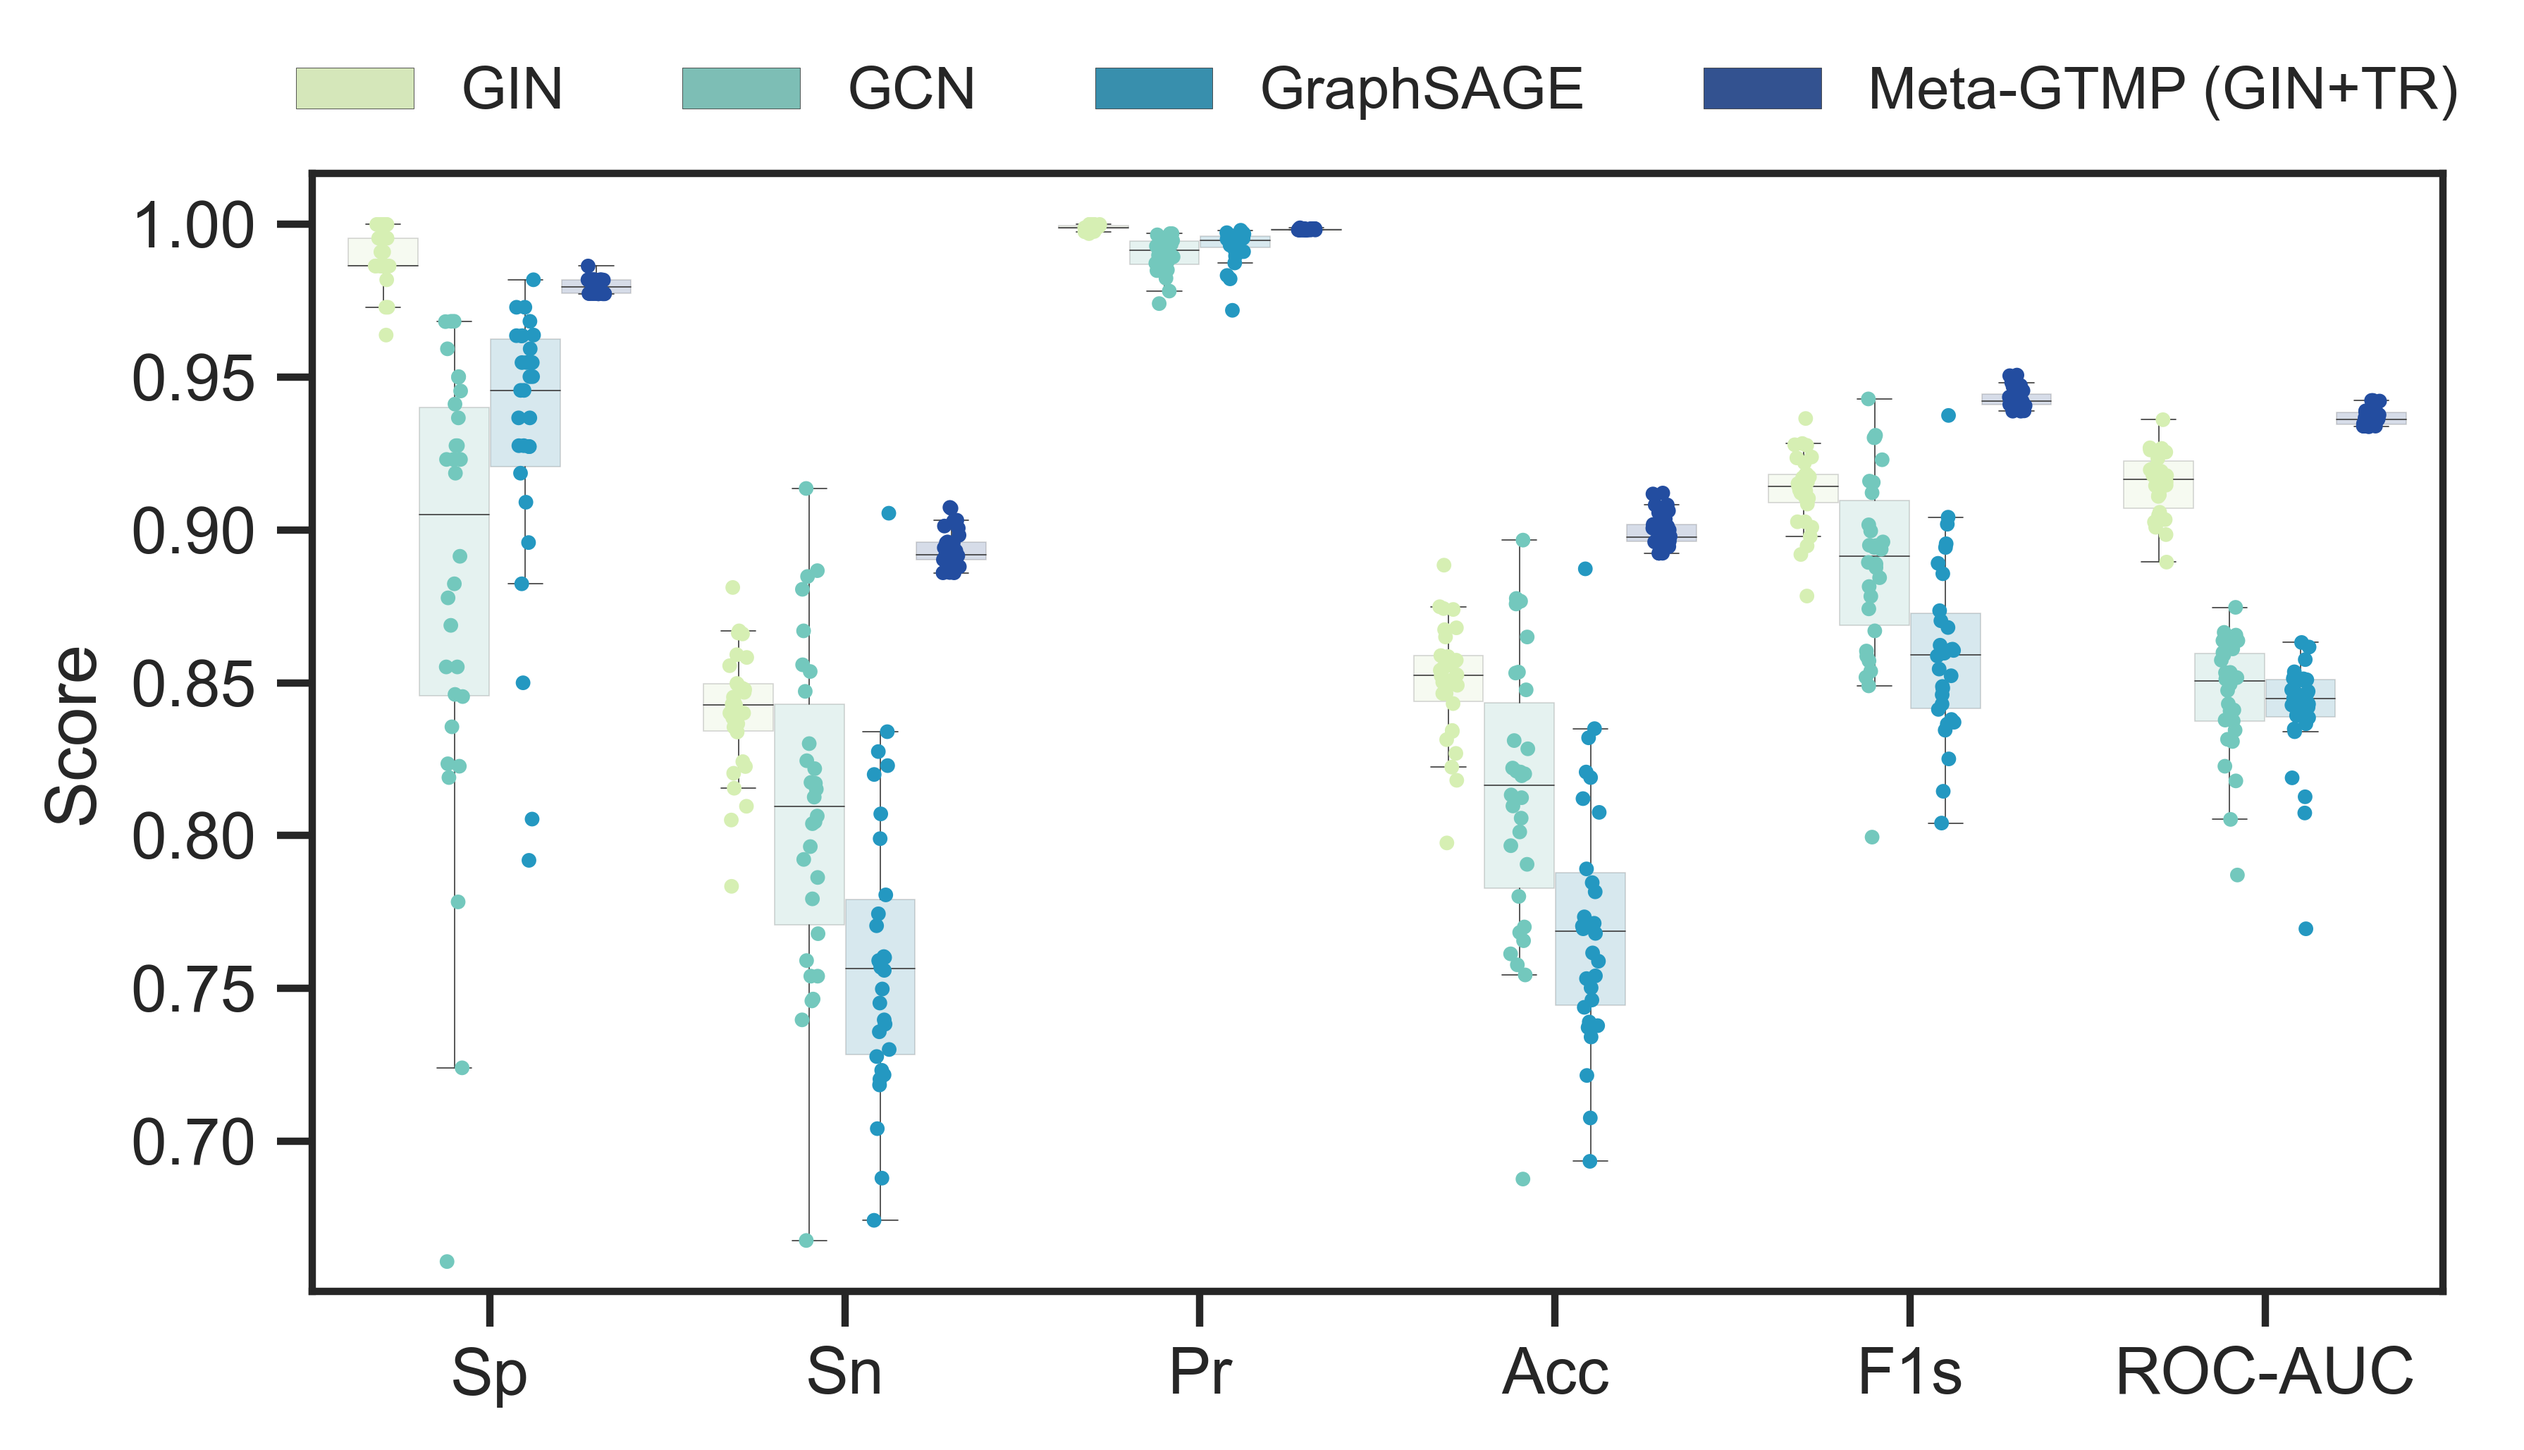
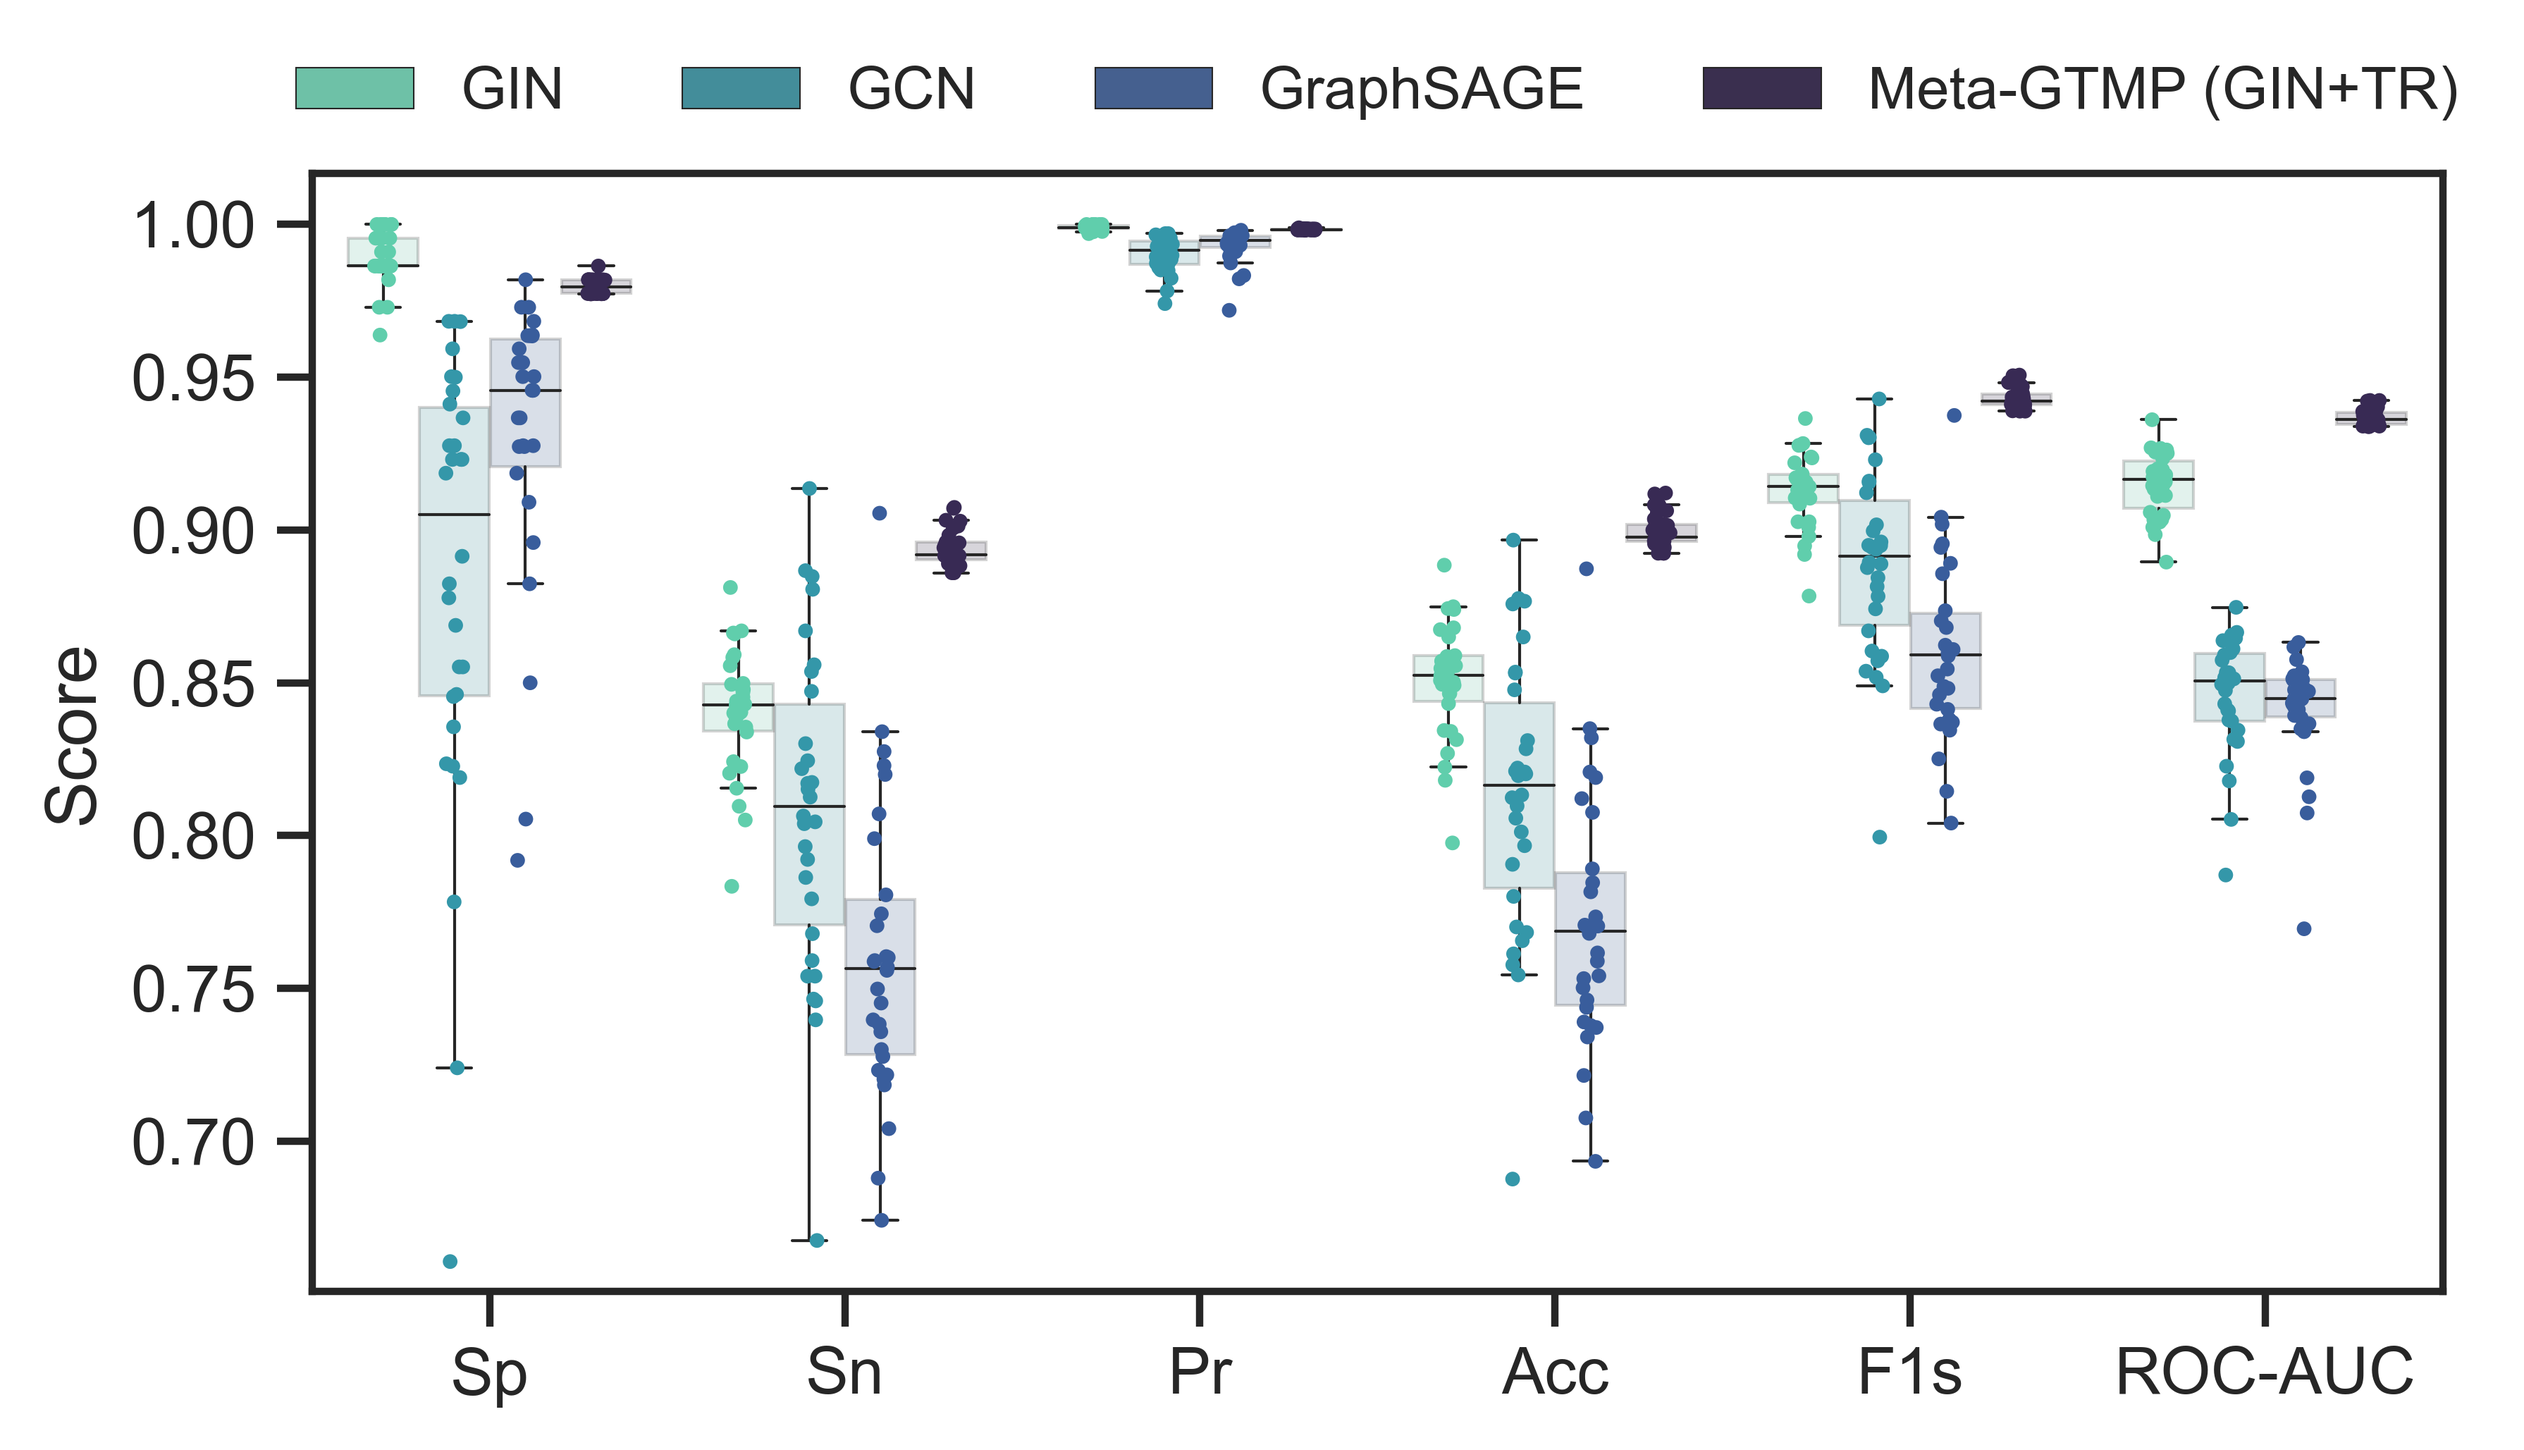
new_commit

diff --git a/utils/boxplots.py b/utils/boxplots.py
@@ -4,6 +4,7 @@ import seaborn as sns
 import numpy as np
 import math
 
+
 df = pd.DataFrame({'Metric': ['Sp','Sp','Sp','Sp','Sp','Sp','Sp','Sp','Sp','Sp','Sp','Sp','Sp','Sp','Sp','Sp','Sp','Sp','Sp','Sp','Sp','Sp','Sp','Sp','Sp','Sp','Sp','Sp','Sp','Sp'],\
                   'GIN':        np.asarray([1.0, 0.9956, 0.9956, 0.9956, 1.0, 1.0, 0.9956, 1.0, 0.9956, 1.0, 0.9956, 1.0, 1.0, 1.0, 1.0, 1.0, 0.9956, 0.9956, 0.9956, 1.0, 0.9956, 0.9956, 0.9956, 0.9956, 1.0, 0.9956, 0.9956, 1.0, 1.0, 1.0]) ,
                   'GCN':        np.asarray([0.9425, 0.8142, 0.8982, 0.7832, 0.9513, 0.8894, 0.4978, 0.9022, 0.92, 0.9733, 0.8933, 0.8578, 0.7522, 0.8496, 0.9333, 0.8844, 0.969, 0.8717, 0.792, 0.8673, 0.9378, 0.8761, 0.9469, 0.969, 0.8584, 0.8496, 0.88, 0.9071, 0.9378, 0.8938]) ,
@@ -65,10 +66,10 @@ sns.set(style = "ticks")
 
 dd=pd.melt(df_final,id_vars=['Metric'],value_vars=['GIN','GCN','GraphSAGE','Meta-GTMP (GIN+TR)'],var_name='Models')
 fig, ax = plt.subplots()
-ax = sns.boxplot(x='Metric',y='value',data=dd,hue='Models', ax=ax, palette="YlGnBu", boxprops=dict(alpha=.2), linewidth=0.2, showfliers=False)
+ax = sns.boxplot(x='Metric',y='value',data=dd,hue='Models', ax=ax, palette="mako_r", boxprops=dict(alpha=.2), linewidth=0.5, showfliers=False)
 #plt.setp(ax.artists,fill=False) 
 ylims=ax.get_ylim()
-sns.stripplot(x="Metric", y="value", hue='Models', data=dd, dodge=True, palette="YlGnBu", ax=ax, ec='k', linewidth=0,  size=2.5, alpha = 1)
+sns.stripplot(x="Metric", y="value", hue='Models', data=dd, dodge=True, palette="mako_r", ax=ax, ec='k', linewidth=0,  size=2.5, alpha = 1)
 ax.set(ylim=ylims)
 #ax.axhline(y =0.719, ls='--', c='darkred', linewidth = 0.5)
 ax.set(xlabel='', ylabel='Score')
@@ -160,10 +161,10 @@ sns.set(style = "ticks")
 
 dd=pd.melt(df_final,id_vars=['Metric'],value_vars=['GIN','GCN','GraphSAGE','Meta-GTMP (GIN+TR)'],var_name='Models')
 fig, ax = plt.subplots()
-ax = sns.boxplot(x='Metric',y='value',data=dd,hue='Models', ax=ax, palette="YlGnBu", boxprops=dict(alpha=.2), linewidth=0.2, showfliers=False)
+ax = sns.boxplot(x='Metric',y='value',data=dd,hue='Models', ax=ax, palette="mako_r", boxprops=dict(alpha=.2), linewidth=0.5, showfliers=False)
 #plt.setp(ax.artists,fill=False) 
 ylims=ax.get_ylim()
-sns.stripplot(x="Metric", y="value", hue='Models', data=dd, dodge=True, palette="YlGnBu", ax=ax, ec='k', linewidth=0,  size=2.5, alpha = 1)
+sns.stripplot(x="Metric", y="value", hue='Models', data=dd, dodge=True, palette="mako_r", ax=ax, ec='k', linewidth=0,  size=2.5, alpha = 1)
 ax.set(ylim=ylims)
 #ax.axhline(y =0.719, ls='--', c='darkred', linewidth = 0.5)
 ax.set(xlabel='', ylabel='Score')
@@ -228,7 +229,8 @@ sns.set(style = "ticks")
 
 dd=pd.melt(df_final,id_vars=['Experiment'],value_vars=['ST-TA98','ST-TA100','ST-TA102','ST-TA1535','ST-TA1537','All-Tasks'],var_name='Models')
 fig, ax = plt.subplots()
-ax = sns.barplot(x='value',y='Experiment',data=dd,hue='Models', ax=ax, palette="YlGnBu", linewidth=0.85, errorbar="sd", capsize = 0.05, errwidth = 2)
+#colors = ["#ff8100","#fb9b50","#ffb347","#9fc0de","#0466c8", "#023e7d"]
+ax = sns.barplot(x='value',y='Experiment',data=dd,hue='Models', ax=ax, palette="ch:start=.1,rot=-.2", saturation = 0.85, linewidth=0.85, errorbar="sd", capsize = 0.05, errwidth = 2)
 #sns.stripplot(x="Metric", y="value", hue='Models', data=dd, dodge=True, palette="YlGnBu", ax=ax, ec='k', linewidth=0.5,  size=2, alpha = 0.7)
 sns.set(style = 'whitegrid')
 #ax.axhline(y =0.719, ls='--', c='darkred', linewidth = 0.5)
@@ -240,8 +242,8 @@ ax.set(xlim=(0, 1.1))
 ax.spines[['right', 'top']].set_visible(False)
 sns.move_legend(ax, "upper left", bbox_to_anchor=(1, 1))
 #plt.legend([],[],frameon = False)
-fig.set_figwidth(6)
-fig.set_figheight(3.25)
+fig.set_figwidth(5)
+fig.set_figheight(5)
 handles, labels = ax.get_legend_handles_labels()
 ax.legend(handles[:6], labels[:6], bbox_to_anchor=(1, 1.02), loc='upper left')
 sns.move_legend(ax, "lower center", bbox_to_anchor=(.5, 1), ncol=6, title=None, frameon=False, fontsize=10)
@@ -251,21 +253,21 @@ sns.set(style = "ticks")
 
 dd=pd.melt(df_final,id_vars=['Experiment'],value_vars=['ST-TA98','ST-TA100','ST-TA102','ST-TA1535','ST-TA1537','All-Tasks'],var_name='Models')
 fig, ax = plt.subplots()
-ax = sns.boxplot(x='Experiment',y='value',data=dd,hue='Models', ax=ax, palette="YlGnBu", boxprops=dict(alpha=.1), linewidth=0.5, showfliers=False)
-plt.setp(ax.artists,fill=False) 
+ax = sns.boxplot(x='Experiment',y='value',data=dd,hue='Models', ax=ax, palette="rocket_r", boxprops=dict(alpha=.1), linewidth=0.5, showfliers=False)
+#plt.setp(ax.artists,fill=False) 
 ylims=ax.get_ylim()
-sns.stripplot(x="Experiment", y="value", hue='Models', data=dd, dodge=True, palette="YlGnBu", ax=ax, ec='k', linewidth=0,  size=3, alpha = 1)
+sns.stripplot(x="Experiment", y="value", hue='Models', data=dd, dodge=True, palette="rocket_r", ax=ax, ec='k', linewidth=0,  size=3, alpha = 1)
 ax.set(ylim=ylims)
 #ax.axhline(y =0.719, ls='--', c='darkred', linewidth = 0.5)
-ax.set(xlabel='', ylabel='Score')
+ax.set(xlabel='', ylabel='ROC-AUC')
 sns.move_legend(ax, "upper left", bbox_to_anchor=(1, 1))
 #plt.legend([],[],frameon = False)
-fig.set_figwidth(6.5)
+fig.set_figwidth(8)
 fig.set_figheight(3.5)
 handles, labels = ax.get_legend_handles_labels()
-ax.legend(handles[:4], labels[:4], bbox_to_anchor=(1, 1.02), loc='upper left')
-sns.move_legend(ax, "lower center", bbox_to_anchor=(.5, 1), ncol=4, title=None, frameon=False, fontsize=10)
-plt.savefig('boxplot_ST_models.png', dpi=300, bbox_inches='tight')
+ax.legend(handles[:6], labels[:6], bbox_to_anchor=(1, 1.05), loc='upper left')
+sns.move_legend(ax, "lower center", bbox_to_anchor=(.5, 1.05), ncol=6, title=None, frameon=False, fontsize=10)
+plt.savefig('boxplot_ST_models.png', dpi=600, bbox_inches='tight')
 
 
 """

diff --git a/gnntr_eval.py b/gnntr_eval.py
@@ -10,8 +10,11 @@ import numpy as np
 from sklearn.metrics import roc_auc_score, f1_score, precision_score, recall_score, confusion_matrix, accuracy_score, balanced_accuracy_score
 from torch.nn.utils.convert_parameters import vector_to_parameters, parameters_to_vector
 import matplotlib.pyplot as plt
+from matplotlib import cm
 import pandas as pd
 import seaborn as sns
+from sklearn.manifold import TSNE
+#from tsnecuda import TSNE
 import statistics
 
 def optimizer_to(optim, device):
@@ -105,6 +108,50 @@ def parse_pred(logit):
     
     return pred
 
+def plot_tsne(nodes, labels, t):
+    
+    #Plot t-SNE visualizations
+    
+    l = ["Meta-GTMP-5-shot"]
+    labels_list =  l
+    t+=1
+    emb_tsne = np.asarray(nodes)
+    y_tsne = np.asarray(labels).flatten()
+      
+    c_dict = {'Mutagenic': '#ff7f0e','Non-Mutagenic': '#1f77b4' }
+    c = ["#ff8100","#fb9b50","#ffb347","#9fc0de","#0466c8", "#023e7d"]
+    z = TSNE(n_components=2, init='random').fit_transform(emb_tsne)
+    label_vals = {0: 'Non-Mutagenic', 1: 'Mutagenic'}
+    print(y_tsne.size)
+    print(z.size)
+    tsne_result_df = pd.DataFrame({'tsne_dim_1': z[:,0], 'tsne_dim_2': z[:,1], 'label': y_tsne})
+    tsne_result_df['label'] = tsne_result_df['label'].map(label_vals)
+    fig, ax = plt.subplots(1)
+    
+    m_colors = ["blue", "red"]
+    for (lab, group), col in zip(tsne_result_df.groupby("label"), m_colors):
+       ax.scatter(group.tsne_dim_1, group.tsne_dim_2, edgecolors=col, facecolors="white", alpha = 1, s = 5, linewidth = 0.4, label=lab)
+    
+    lim = (z.min()-5, z.max()+5)
+    ax.set_xlim(lim)
+    ax.set_ylim(lim)
+    ax.set_aspect('equal') 
+    #fig.set_figwidth(6.5)
+    #fig.set_figheight(3.5)
+    handles, labels = ax.get_legend_handles_labels()
+    ax.legend(handles[:2], labels[:2], bbox_to_anchor=(1, 0.02), loc='lower right')
+    ax.set_title("Meta-GTMP")
+    ax.set(xlabel="Dimension 1")
+    ax.set(ylabel="Dimension 2")
+    ax.tick_params(bottom=True) 
+    ax.tick_params(left=True)
+    plt.grid(False)
+    plt.savefig('plots/'+labels_list[t-1], dpi=600, bbox_inches='tight')
+    plt.show()
+    plt.close(fig)
+    
+    return t
+
 
 class GNNTR_eval(nn.Module):
     def __init__(self, dataset, gnn, support_set, pretrained, baseline):
@@ -143,13 +190,13 @@ class GNNTR_eval(nn.Module):
         self.gnn.to(torch.device("cuda:0"))
         
         if self.baseline == 0:
-            self.ckp_path_gnn = "checkpoints/checkpoints-GT/FS-GNNTR_GNN_muta_10.pt"
-            self.ckp_path_transformer = "checkpoints/checkpoints-GT/FS-GNNTR_Transformer_muta_10.pt"
+            self.ckp_path_gnn = "checkpoints/checkpoints-GT/FS-GNNTR_GNN_muta_5.pt"
+            self.ckp_path_transformer = "checkpoints/checkpoints-GT/FS-GNNTR_Transformer_muta_5.pt"
         elif self.baseline == 1:
-            self.ckp_path_gnn = "checkpoints/checkpoints-baselines/GIN/GIN_GNN_muta_10.pt"
+            self.ckp_path_gnn = "checkpoints/checkpoints-baselines/GIN/GIN_GNN_muta_5.pt"
 
         self.gnn, self.opt, start_epoch = load_ckp(self.ckp_path_gnn, self.gnn, self.opt)
-        #self.transformer, self.meta_opt, start_epoch = load_ckp(self.ckp_path_transformer, self.transformer, self.meta_opt)
+        self.transformer, self.meta_opt, start_epoch = load_ckp(self.ckp_path_transformer, self.transformer, self.meta_opt)
             
     def update_graph_params(self, loss, lr_update):
         grads = torch.autograd.grad(loss, self.gnn.parameters())
@@ -236,7 +283,7 @@ class GNNTR_eval(nn.Module):
                 
                 y_pred.append(pred)   
                 
-            #t = plot_tsne(nodes, labels, t)
+            t = plot_tsne(nodes, labels, t)
              
             roc_scores, f1_scores, p_scores, sn_scores, sp_scores, acc_scores, bacc_scores  = metrics(roc_scores, f1_scores, p_scores, sn_scores, sp_scores, acc_scores, bacc_scores, y_label, y_pred)
             

diff --git a/data.py b/data.py
@@ -36,7 +36,7 @@ from itertools import repeat, product, chain
 import torch
 import random
 import bioalerts
-from bioalerts import LoadMolecules, Alerts, FPCalculator
+#from bioalerts import LoadMolecules, Alerts, FPCalculator
 
 allowable_features = {
     'possible_atomic_num_list' : list(range(1, 119)),
@@ -153,7 +153,7 @@ def random_sampler(D, d, t, k, n, train):
     print(len(S))
     print(len(smiles_s))
     
-    return S, Q, smiles_s, smiles_q
+    return S, Q#, smiles_s, smiles_q
 
 
 def split_into_directories(data):

diff --git a/eval_model.py b/eval_model.py
@@ -25,7 +25,7 @@ def save_result(epoch, N, exp, filename):
 
 dataset = "muta"
 gnn = "gin" #gin, graphsage, gcn
-support_set = 10
+support_set = 5
 pretrained = "pre-trained/supervised_contextpred.pth"
 baseline = 0
 device = "cuda:0"

diff --git a/gnn_tr.py b/gnn_tr.py
@@ -12,7 +12,6 @@ from einops import rearrange, repeat
 from einops.layers.torch import Rearrange
 import torch.nn.functional as F
 import math
-from vit_pytorch.vit import Transformer
 
 
 def pair(t):
